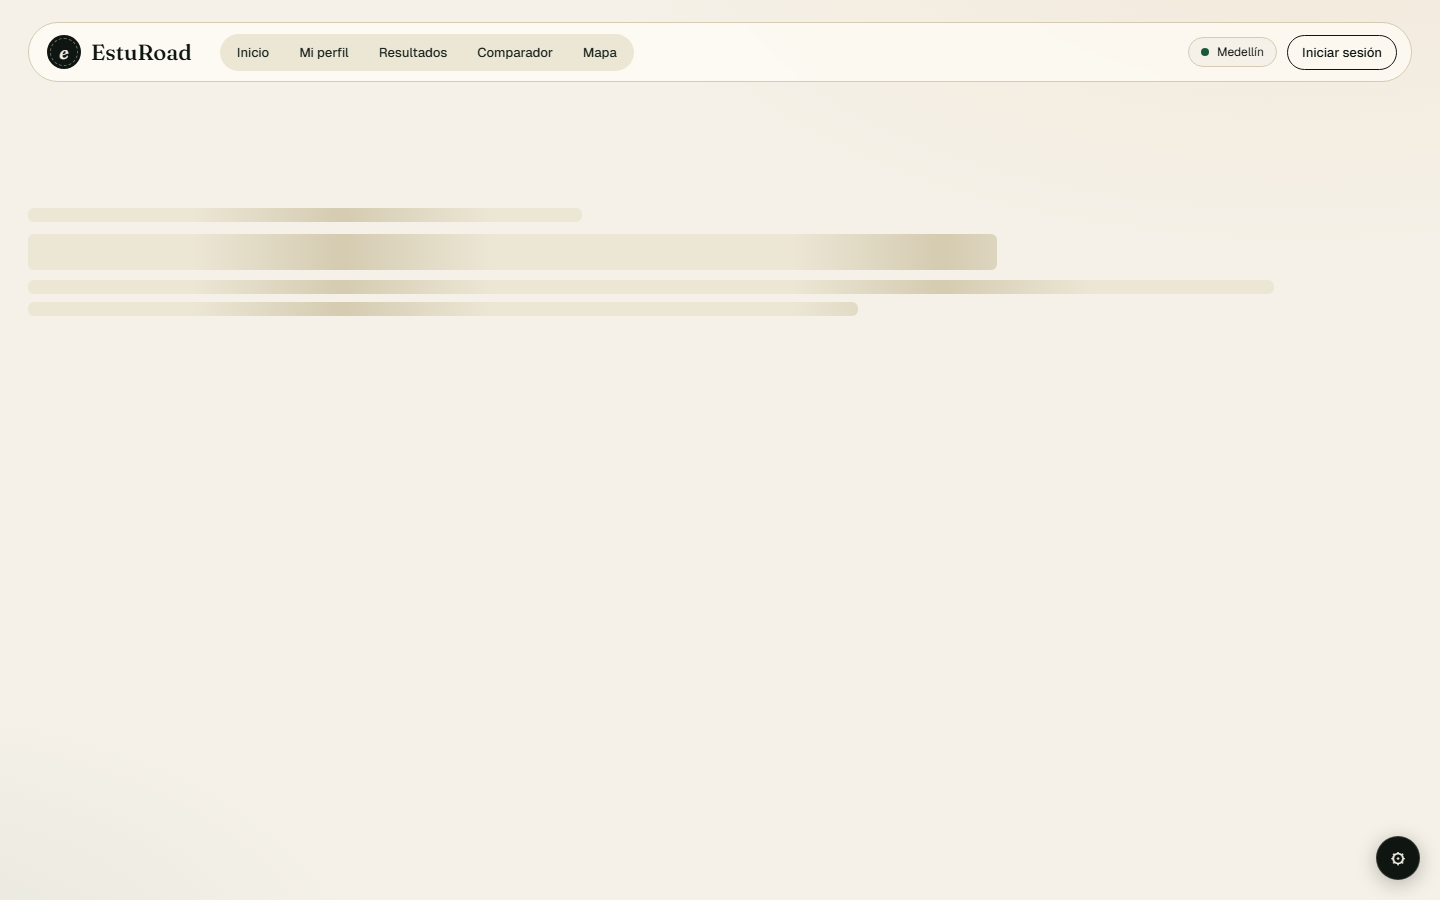
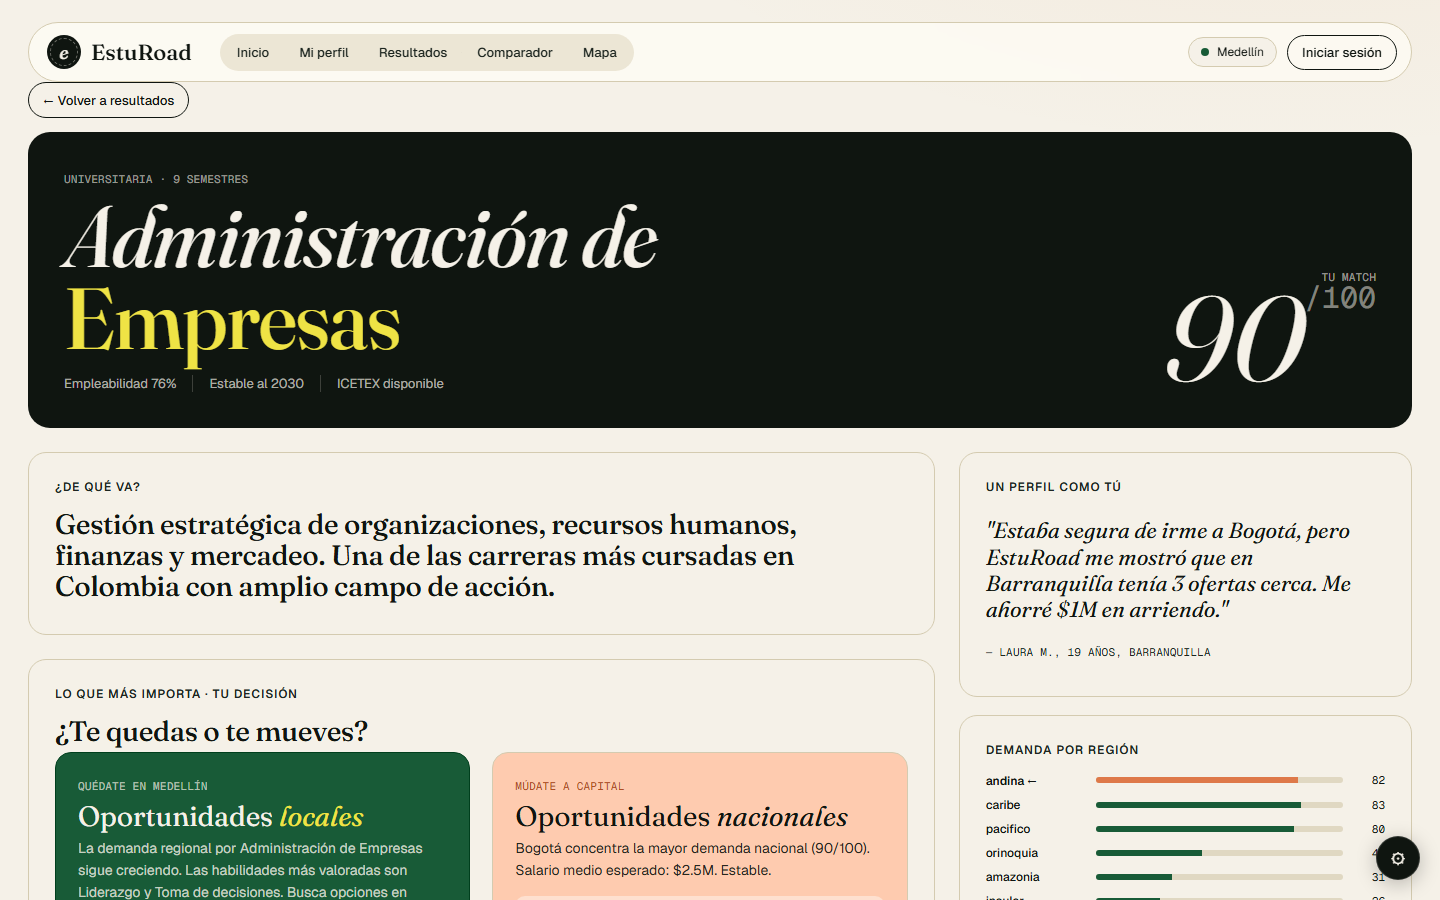
fix: regenerate screenshots with proper wait conditions

diff --git a/scripts/screenshots.ts b/scripts/screenshots.ts
@@ -77,19 +77,20 @@ async function main() {
   await page.locator('button[title="Personalizar apariencia"]').click(); // close
   await shot(page, '05-results-cards');
 
-  // 5. Detail page
+  // 5. Detail page — wait for hero content to be fully rendered
   await page.locator('.match-card').first().click();
   await page.waitForURL('**/detalle/**', { timeout: 10_000 });
+  await page.locator('.detail-hero').waitFor({ state: 'visible', timeout: 15_000 });
   await shot(page, '06-detail');
 
-  // 6. Compare
+  // 6. Compare — wait for compare table (auto-populates with top 3)
   await page.goto(`${BASE}/comparar`);
-  await page.waitForLoadState('domcontentloaded');
+  await page.locator('.compare').waitFor({ state: 'visible', timeout: 20_000 });
   await shot(page, '07-compare');
 
-  // 7. Map full
+  // 7. Map full — wait for SVG map to render
   await page.goto(`${BASE}/mapa`);
-  await page.waitForLoadState('domcontentloaded');
+  await page.locator('svg').first().waitFor({ state: 'visible', timeout: 15_000 });
   await shot(page, '08-map');
 
   await browser.close();
